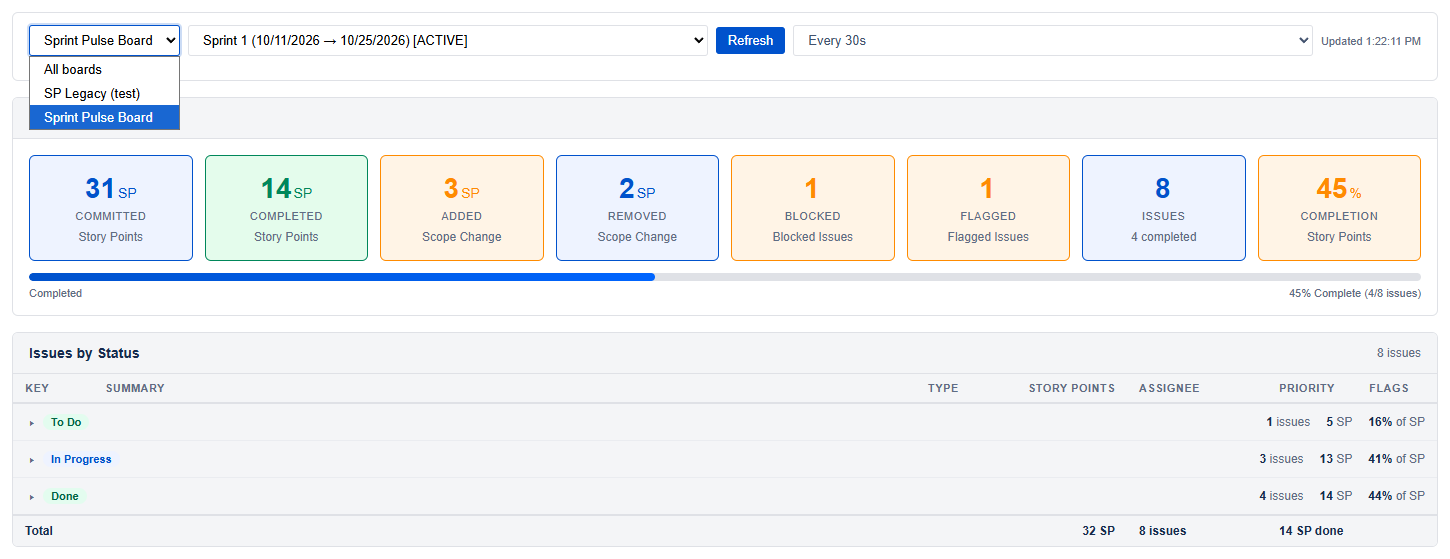
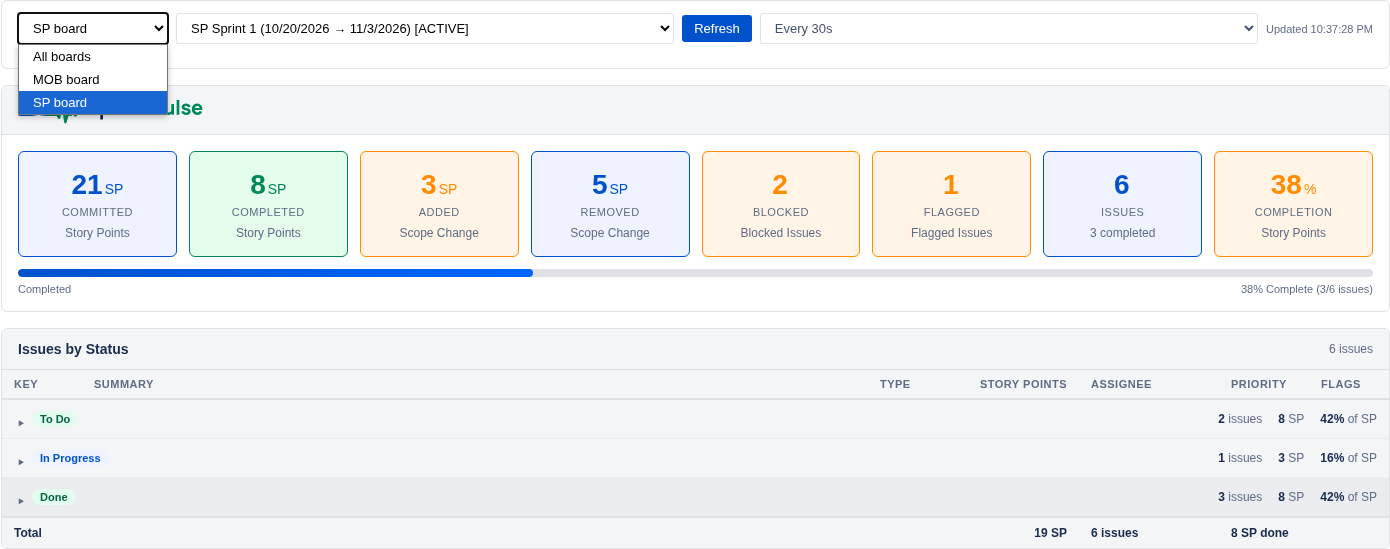
Add Sprint Pulse branding and refresh screenshots for 3.1.0
- Show the full Sprint Pulse logo in place of the "Sprint Health" header.
- Use the square loop-to-pulse icon as the Add gadget thumbnail (centred
  in 120x60, since Jira stretches thumbnails to that size).
- Register the plugin icon and logo for Manage apps.
- Add the branding kit under branding/ and the logo header to the README.
- Retake the dashboard, board selector and sprint selector screenshots.
- Bump version to 3.1.0-SNAPSHOT.

diff --git a/README.md b/README.md
@@ -1,8 +1,13 @@
-# Sprint Pulse
+<h1 align="center">
+  <picture>
+    <source media="(prefers-color-scheme: dark)" srcset="branding/sprint-pulse-logo-dark.svg">
+    <img src="branding/sprint-pulse-logo.svg" alt="Sprint Pulse" width="420">
+  </picture>
+</h1>
 
 A Jira Server/Data Center dashboard gadget that combines the ideas of **Sprint Health** and **Sprint Statistics** into a single view: sprint health metrics at the top, and all sprint issues grouped by status with story points below.
 
-![Sprint Pulse gadget with the board selector open](board-selector.png)
+![Sprint Pulse gadget showing an active sprint: health cards with scope change, blocked and flagged counts, and issues grouped by status](dash-health.png)
 
 ## Features
 
@@ -62,9 +67,11 @@ Copy the JAR into `<jira-home>/plugins/installed-plugins/` and restart Jira.
 1. Open or create a dashboard and choose **Add gadget**.
 2. Search for **Sprint Pulse** and add it.
 3. Optionally pick a board from the dropdown next to the sprint list to limit it to a single board (also settable as **Board ID** in the configuration dialog). `All boards` lists sprints from every board you can see. The dropdown hides itself when only one board is available or the board list cannot be loaded, in which case the sprint list keeps working.
+
+   ![Board selector open with All boards and two boards listed](board-selector.png)
 4. Select a sprint from the dropdown. It lists the running sprint, sprints still to come, and the 20 most recent closed sprints on the visible boards. The gadget loads health metrics and issues automatically; the running sprint is preselected, so the gadget shows data as soon as it loads.
 
-   ![Sprint picker with the running sprint selected](sprint-selector.png)
+   ![Sprint picker open with the active sprint selected, plus future and closed sprints](sprint-selector.png)
 5. Click **Refresh** to reload the selected sprint on demand. By default the gadget also refreshes itself every 30 seconds; the last-updated time next to the button shows when the data was fetched. The dropdown next to the button sets the refresh interval (`Auto off`, `Every 30s`, `Every 1m`, `Every 5m`) and is remembered per user.
 
 The selected sprint is saved as a gadget preference. Other preferences (shown in the configuration dialog) include:
@@ -120,12 +127,16 @@ my-jira-gadget/
         ├── atlassian-plugin.xml
         ├── gadget/my-gadget.xml
         ├── gadget/gadget.properties
+        ├── images/
         └── META-INF/spring/plugin-context.xml
+branding/
 ```
 
 - `SprintGadgetResource.java` — REST endpoints, sprint discovery, health calculations, issue serialization.
 - `my-gadget.xml` — gadget definition, preferences, styles, and client-side rendering.
-- `atlassian-plugin.xml` — plugin descriptor (gadget and REST modules).
+- `atlassian-plugin.xml` — plugin descriptor (gadget, REST, and image resource modules).
+- `images/` — the plugin icon and logo, the gadget thumbnail, and the logo shown in the gadget header.
+- `branding/` — logo source files and usage notes (see [branding/README.md](branding/README.md)).
 - `tests/gadget-smoke-test.js` — runs the gadget JavaScript in a stubbed DOM/fetch sandbox to check loading, auto-refresh, preferences, and the board selector.
 
 ## CI pipeline

diff --git a/branding/README.md b/branding/README.md
@@ -1,0 +1,40 @@
+# Sprint Pulse branding
+
+The logo is a sprint loop that runs straight into a heartbeat: the iteration keeps cycling, and the gadget reports its pulse. The dot at the end stands for the live auto-refresh.
+
+## Files
+
+| File | Use |
+| --- | --- |
+| `sprint-pulse-logo.svg` | Full logo (mark + wordmark) on light backgrounds; README header |
+| `sprint-pulse-logo-dark.svg` | Full logo on dark backgrounds |
+| `sprint-pulse-logo.png` | Full logo as a high-resolution PNG (light backgrounds) |
+| `sprint-pulse-mark.svg` | Wide mark without the wordmark |
+| `sprint-pulse-mark-dark.svg` | Wide mark for dark backgrounds |
+| `sprint-pulse-icon.svg` | Compact square mark for icons |
+| `sprint-pulse-icon-144.png` | Atlassian Marketplace app logo (144 × 144) |
+| `sprint-pulse-icon-512.png` | Large square icon (512 × 512) |
+
+Packaged in the plugin, under `my-jira-gadget/src/main/resources/images/`:
+
+| File | Use |
+| --- | --- |
+| `pluginIcon.png` | 16 × 16 icon in Manage apps (`plugin-icon`) |
+| `pluginLogo.png` | 72 × 72 logo in Manage apps (`plugin-logo`) |
+| `thumbnail.png` | 120 × 60 thumbnail in the dashboard's Add gadget dialog: the square icon (`sprint-pulse-icon.svg`) centred, since Jira stretches thumbnails to 120 × 60 |
+| `sprint-pulse-logo.svg` | Full logo shown in place of the "Sprint Health" title in the gadget |
+
+## Colors
+
+| Role | Light | Dark |
+| --- | --- | --- |
+| Loop | `#0052CC` | `#4C9AFF` |
+| Pulse | `#00875A` | `#57D9A3` |
+| "Sprint" | `#172B4D` | `#FFFFFF` |
+| "Pulse" | `#00875A` | `#57D9A3` |
+
+These match the colors the gadget already uses.
+
+## Type
+
+The wordmark is set in Manrope ExtraBold and converted to outlines, so no font needs to be installed to display it. Manrope is licensed under the SIL Open Font License 1.1 (Copyright 2018 The Manrope Project Authors).
